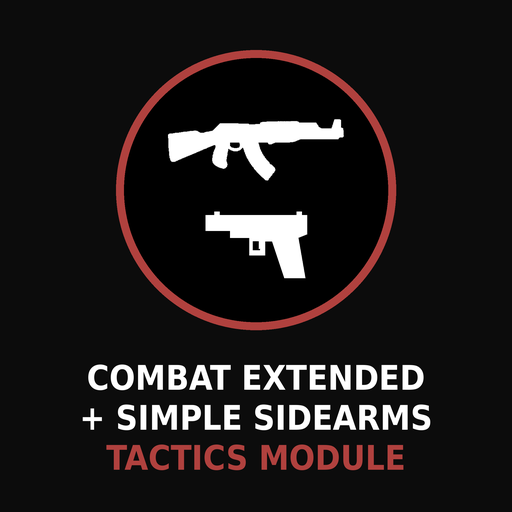
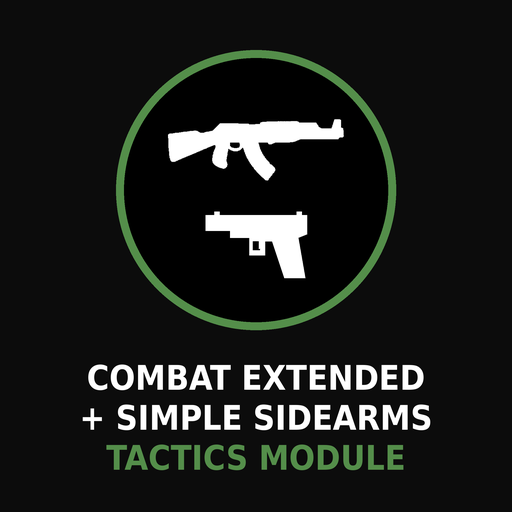
assets: recolored suite badges + EM-Metals badge (palette rebalance); docs: UPMM->MMP
New suite palette (silver / steel-blue / green) badges + About preview; swap the
retired UPMM cross-link for More Mod Patches for Expanded Materials - Metals.

Claude-Session: https://claude.ai/code/session_01P8KGqMWXs1NiRZudGV5mNa

diff --git a/README.md b/README.md
@@ -44,7 +44,7 @@ in these instead.
 <tr><th width="300">Mod</th><th width="540">What it does</th></tr>
 <tr><td width="300"><a href="https://github.com/eebette/Better-Attack-Orders-for-Simple-Sidearms"><img src="Media/Badge_BAO.png" width="300" alt="Better Attack Orders for Simple Sidearms"></a></td><td width="540">Adds sidearm attack orders to the right-click target menu.</td></tr>
 <tr><td width="300"><a href="https://github.com/eebette/Pawns-Optimize-Weapon-Quality"><img src="Media/Badge_POWQ.png" width="300" alt="Pawns Optimize Weapon Quality"></a></td><td width="540">Pawns will upgrade their held guns when a higher-quality copy is available.</td></tr>
-<tr><td width="300"><a href="https://github.com/eebette/Universal-Patch-for-More-Materials"><img src="Media/Badge_UPMM.png" width="300" alt="Universal Patch for More Materials"></a></td><td width="540">Adds materials from <a href="https://steamcommunity.com/sharedfiles/filedetails/?id=3055040889">More Materials</a> to non-vanilla recipes.</td></tr>
+<tr><td width="300"><a href="https://github.com/eebette/More-Mod-Patches-for-Expanded-Materials-Metals"><img src="Media/Badge_MMP.png" width="300" alt="Expanded Materials - Metals: Mod Patches"></a></td><td width="540">Extends <a href="https://steamcommunity.com/sharedfiles/filedetails/?id=3333419387">Expanded Materials - Metals</a> to modded buildings it doesn't cover.</td></tr>
 </table>
 
 ## FAQ
